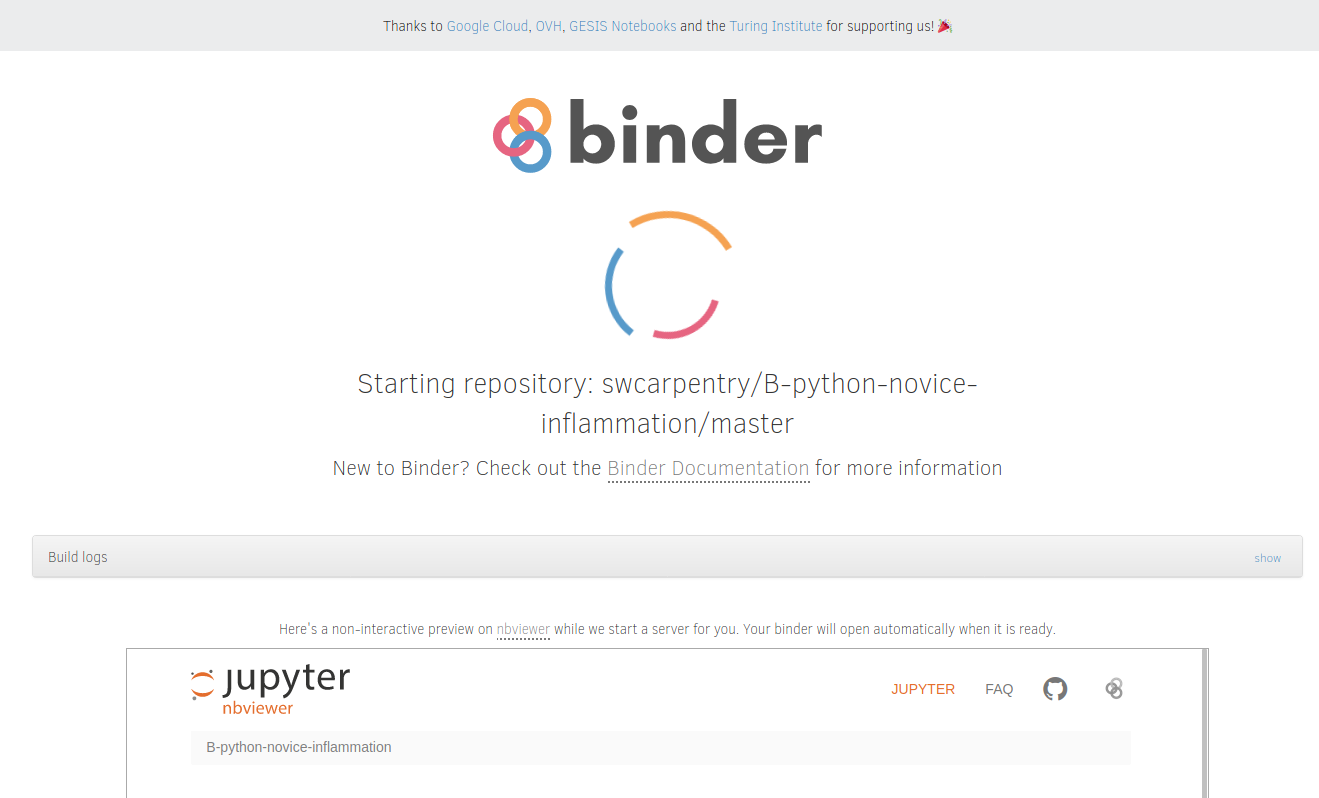
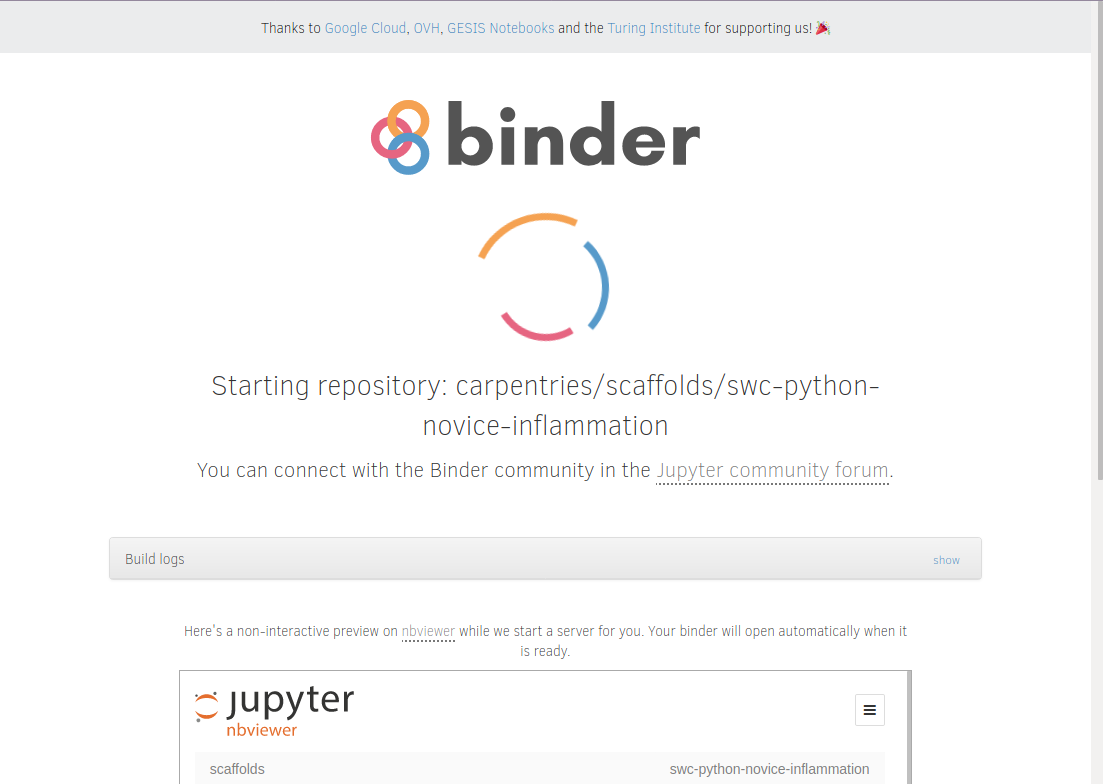
update isntructions for binder

diff --git a/instructions/instructors.md b/instructions/instructors.md
@@ -23,7 +23,11 @@ outline their benefits and challenges in the next two sections.
 
 ## RStudio Cloud
 
-[RStudio Cloud][rs-cloud] is a service from [RStudio](https://rstudio.com), which is an online RStudio session that is free for the moment (they are still working on their pricing, so it may change in the future). This solution has been used in university classroom contexts for a couple of years and is stable. For more information, see this talk: <https://rstd.io/cloud-classroom>.
+[RStudio Cloud][rs-cloud] is a service from [RStudio](https://rstudio.com),
+which is an online RStudio session that is free for the moment (they are still
+working on their pricing, so it may change in the future). This solution has
+been used in university classroom contexts for a couple of years and is stable.
+For more information, see this talk: <https://rstd.io/cloud-classroom>.
 
 Advantages:
 
@@ -45,8 +49,8 @@ Drawbacks:
 ### Recommended Lessons
 
 [R](#r) lessons are recommended for this solution. If you are also teaching a
-shell module, it is still possible to use this solution, but inform your learners
-that they should use the built in text editor for this. 
+[shell](#shell) module, it is still possible to use this solution, but inform
+your learners that they should use the built in text editor for this. 
 
 Because of the security aspect, this is the **only interface recommended for
 [Git](#git) lessons**.
@@ -78,15 +82,77 @@ there, they should follow these steps:
 
 ## My Binder
 
-[My Binder][binder] is an open source project that is largely built for open science and reproducibility. The project is Python-centric, but is flexible enough to provide interfaces to RStudio and OpenRefine. There is no login required for users, but it can take some time for the sessions to start if new instances need to start
+[My Binder][binder] is an open source project that is largely built for open
+science and reproducibility. The project is Python-centric, but is flexible
+enough to provide interfaces to RStudio and OpenRefine. There is no login
+required for users, but it can take several minutes for the sessions to start if
+the images have not been used recently.
 
- - The session is served over the internet and can take anywhere from 30
-   seconds to 10 minutes to start up the first time. 
- - Files can be uploaded to the session, but you cannot save your session. 
-   Between sessions, learners must save the files to their computers.
- - 10 minutes of inactivity will result in the container being shut down with all data lost. 
- - Everything done in the the Binder session is visible to the world: <https://mybinder.readthedocs.io/en/latest/faq.html#can-i-push-data-from-my-binder-session-back-to-my-repository>
- - Any other concerns, please see the FAQ: https://mybinder.readthedocs.io/en/latest/faq.html 
+FAQ: https://mybinder.readthedocs.io/en/latest/faq.html 
+
+Advantages:
+
+ - Identical environment to all python lessons teaching Jupyter Notebooks or
+   Jupyter Lab
+ - Access to a full-featured shell with nano installed. 
+ - Flexible interface (can also host Rstudio, JupyterLab, and OpenRefine)
+
+Drawbacks:
+
+ - Startup can take anywhere from 30 seconds to 30 minutes the first time
+   (dependent on package installation, this is more true for R-based lessons
+   than python-based lessons).  
+ - Files can be uploaded to the session, but the project state does not persist.
+   **Between sessions, learners must save the files to their computers.**
+ - 10 minutes of inactivity will result in the container being shut down with
+   all data lost. 
+ - [Everything done in the the Binder session is potentially visible to the world](https://mybinder.readthedocs.io/en/latest/faq.html#can-i-push-data-from-my-binder-session-back-to-my-repository)
+
+### Recommended lessons
+
+[Python](#python) lesson are a natural choice for this environment.
+[Shell](#shell) lessons are also recommended for this due to the presence of
+nano. 
+
+Due to security issues, DO NOT use this interface for the [Git](#git) lessons.
+
+### How to use
+
+You should give the learner a project link that will have the format
+`https://mybinder.org/v2/gh/carpentries/scaffolds/<lesson>?urlpath=<interface>` 
+where `<lesson>` is the lesson name with the curriculum prefix (e.g.,
+<https://swcarpentry.github.io/shell-novice> would be `swc-shell-novice`) and
+`<interface>` will be one of tree or lab to indicate Jupyter Notebook or Jupyter
+Lab interface, respectively. 
+
+You can copy these links from those listed in the [links to lessons](#links-to-lessons).
+
+> **IMPORTANT**: because these images can take some time to load the first time, 
+> please click on the link at least a half an hour before you give it to the
+> learner and let it load in the background so that they don't have to wait 30
+> minutes for it to load. 
+
+Here is an example workflow from the python-novice-inflammation lesson using Jupyter Lab:
+<https://mybinder.org/v2/gh/carpentries/scaffolds/swc-python-novice-inflammation?urlpath=tree>
+
+Once the learner has the link, here is their process:
+
+1. Open the link in the browser and wait for it to fully load
+   ![Binder loading screen](img/binder-start.png)
+   > Note: if any error occurs, reload the page to try again.
+2. Double click on the data/ directory and click on the "New" button in the top
+   right to select a new Python 3 notebook.
+   ![Image of Jupyter Notebook interface creating a new Python 3 notebook](img/new-py3.png)
+
+Because data is not persistant, the learner will need to download all new
+scripts and data and re-upload them before and after breaks. 
+
+1. The learner should save their work to their computer using the download button
+   ![Downloading a Jupyter Notebook that says "hello world"](img/download-notebook.png)
+2. For the next session, if you are using the same materials, then the learner should
+   upload their notebook (which is a threestep process of pressing "Upload",
+   choosing the file, and then pressing "Upload" for that file)
+   ![Two step process to upload a file to Binder](img/upload-notebook.png)
 
 # Links to lessons
 
@@ -96,8 +162,8 @@ there, they should follow these steps:
 
 <http://swcarpentry.github.io/git-novice/>
 
-Most workshops will include git as part of the content. While both RStudio
-Cloud and My Binder have git installed, only RStudio Cloud is currently
+Most workshops will include git as part of the content. While both [RStudio
+Cloud][rs-cloud] and My Binder have git installed, only RStudio Cloud is currently
 recommended for use with the Git Lesson as long as each learner ensures they
 have saved a copy of the materials to their own account. The primary reason for
 recommending RStudio Cloud over My Binder is because sensitive information
